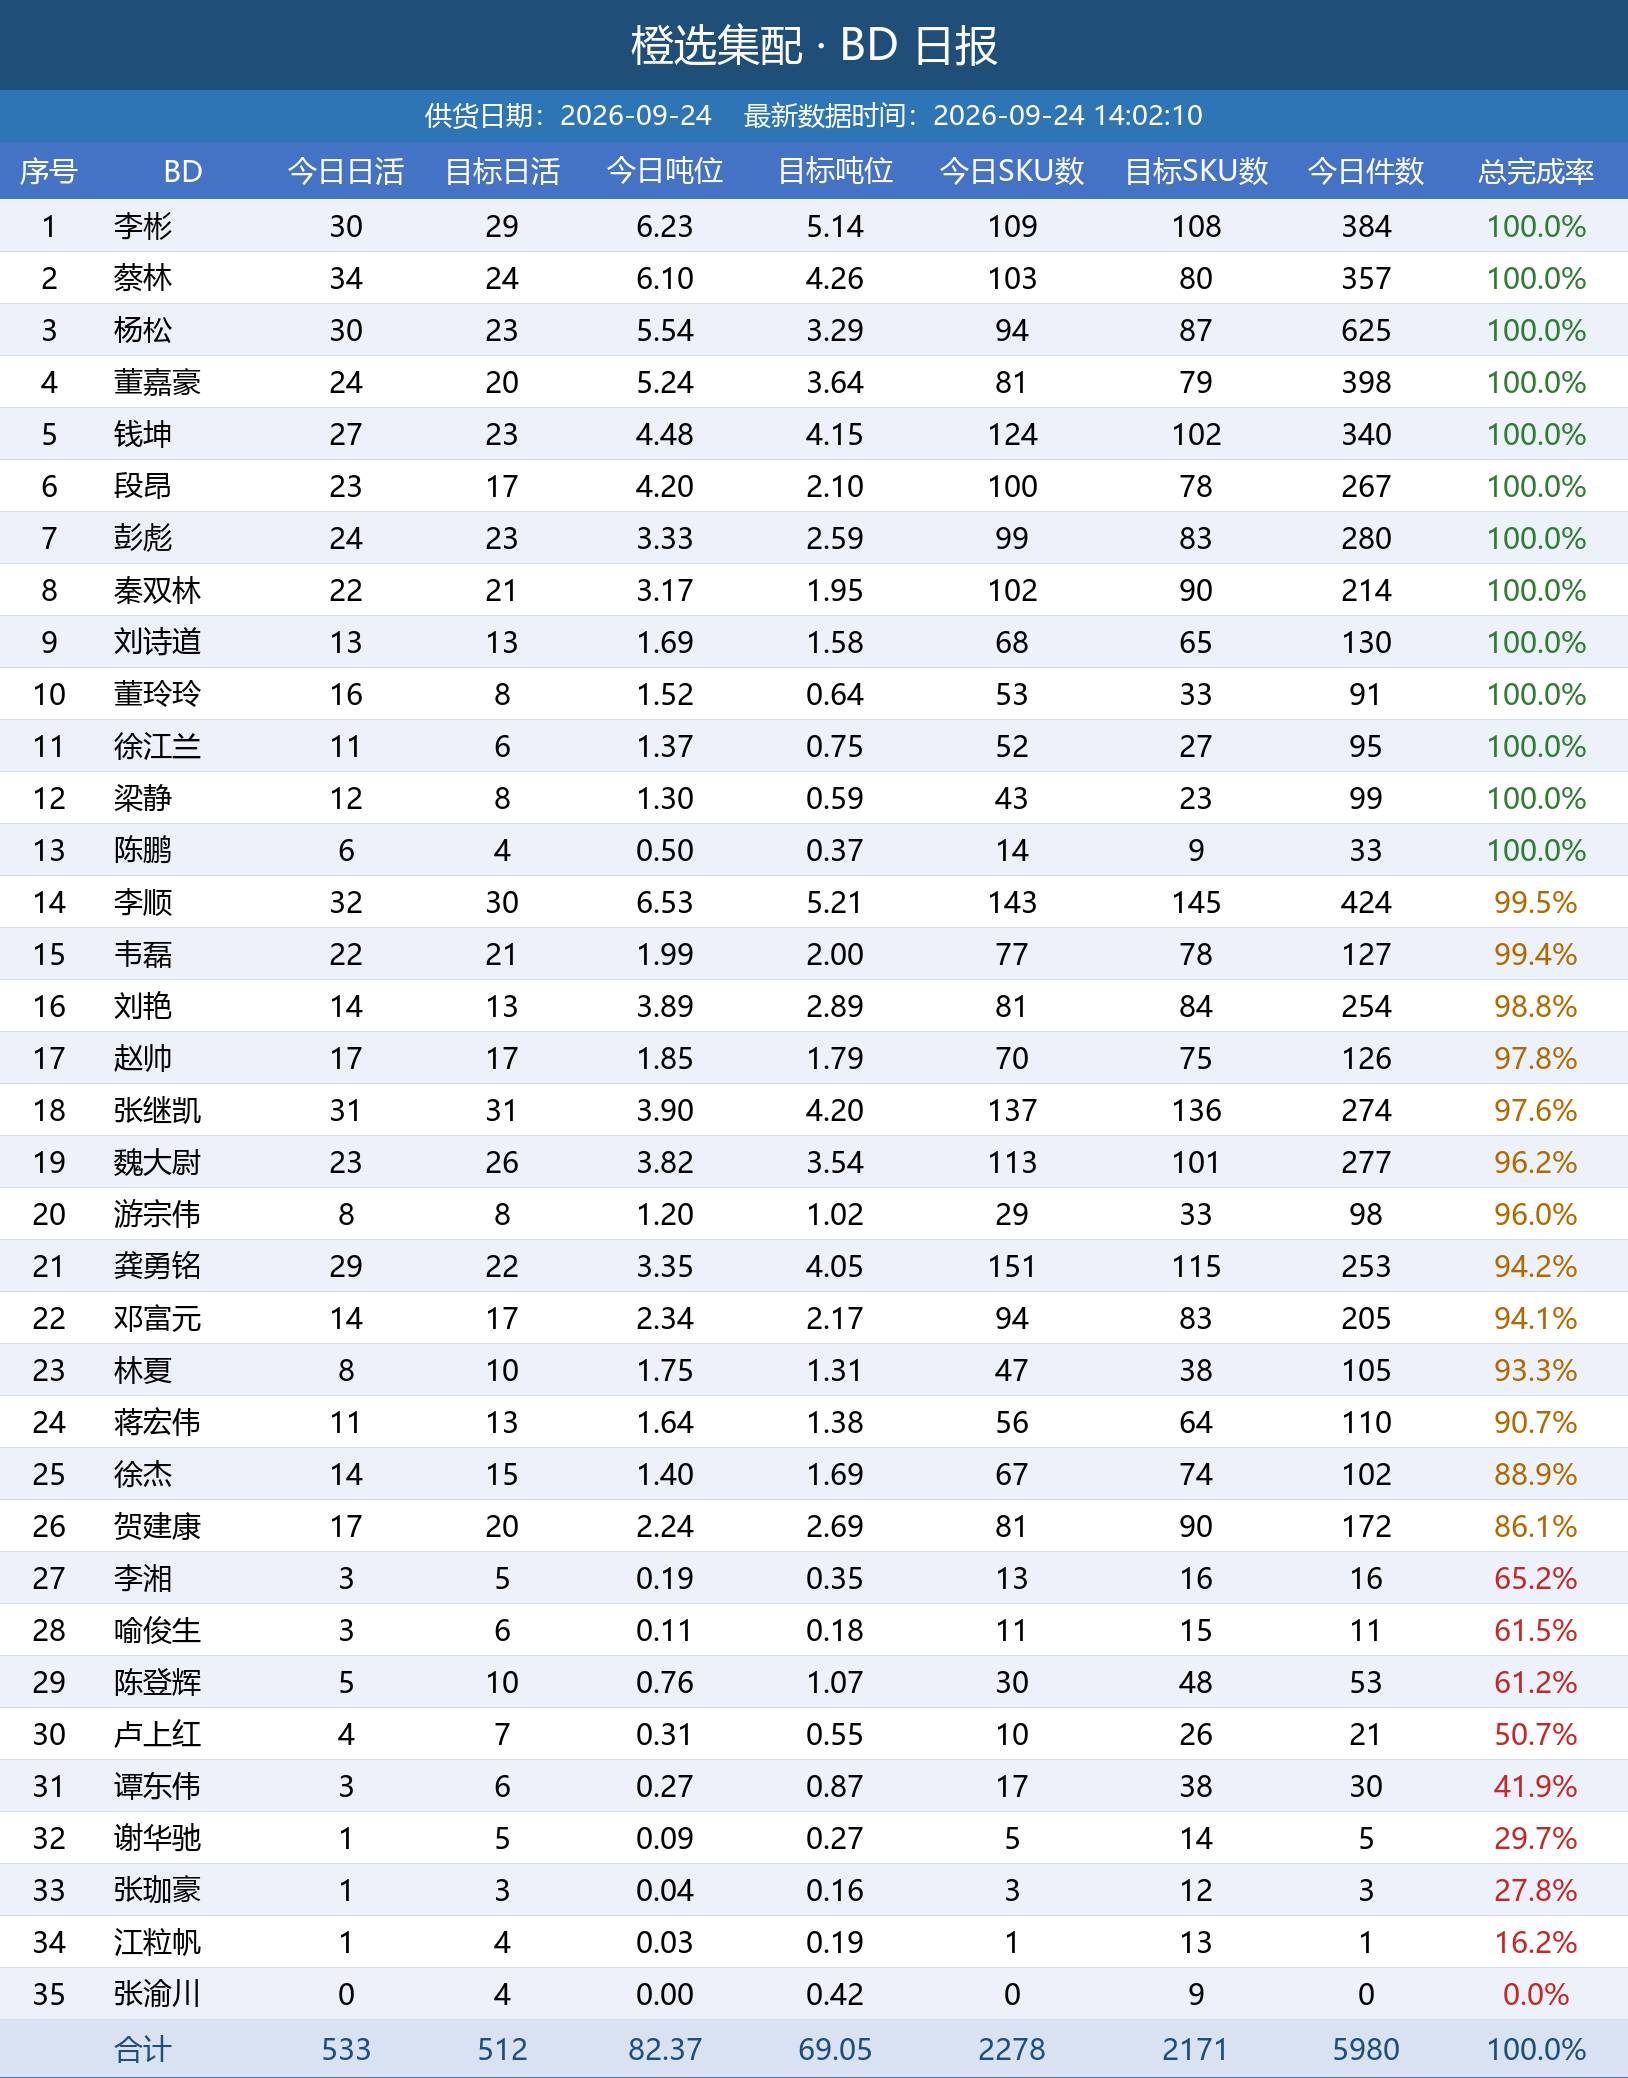
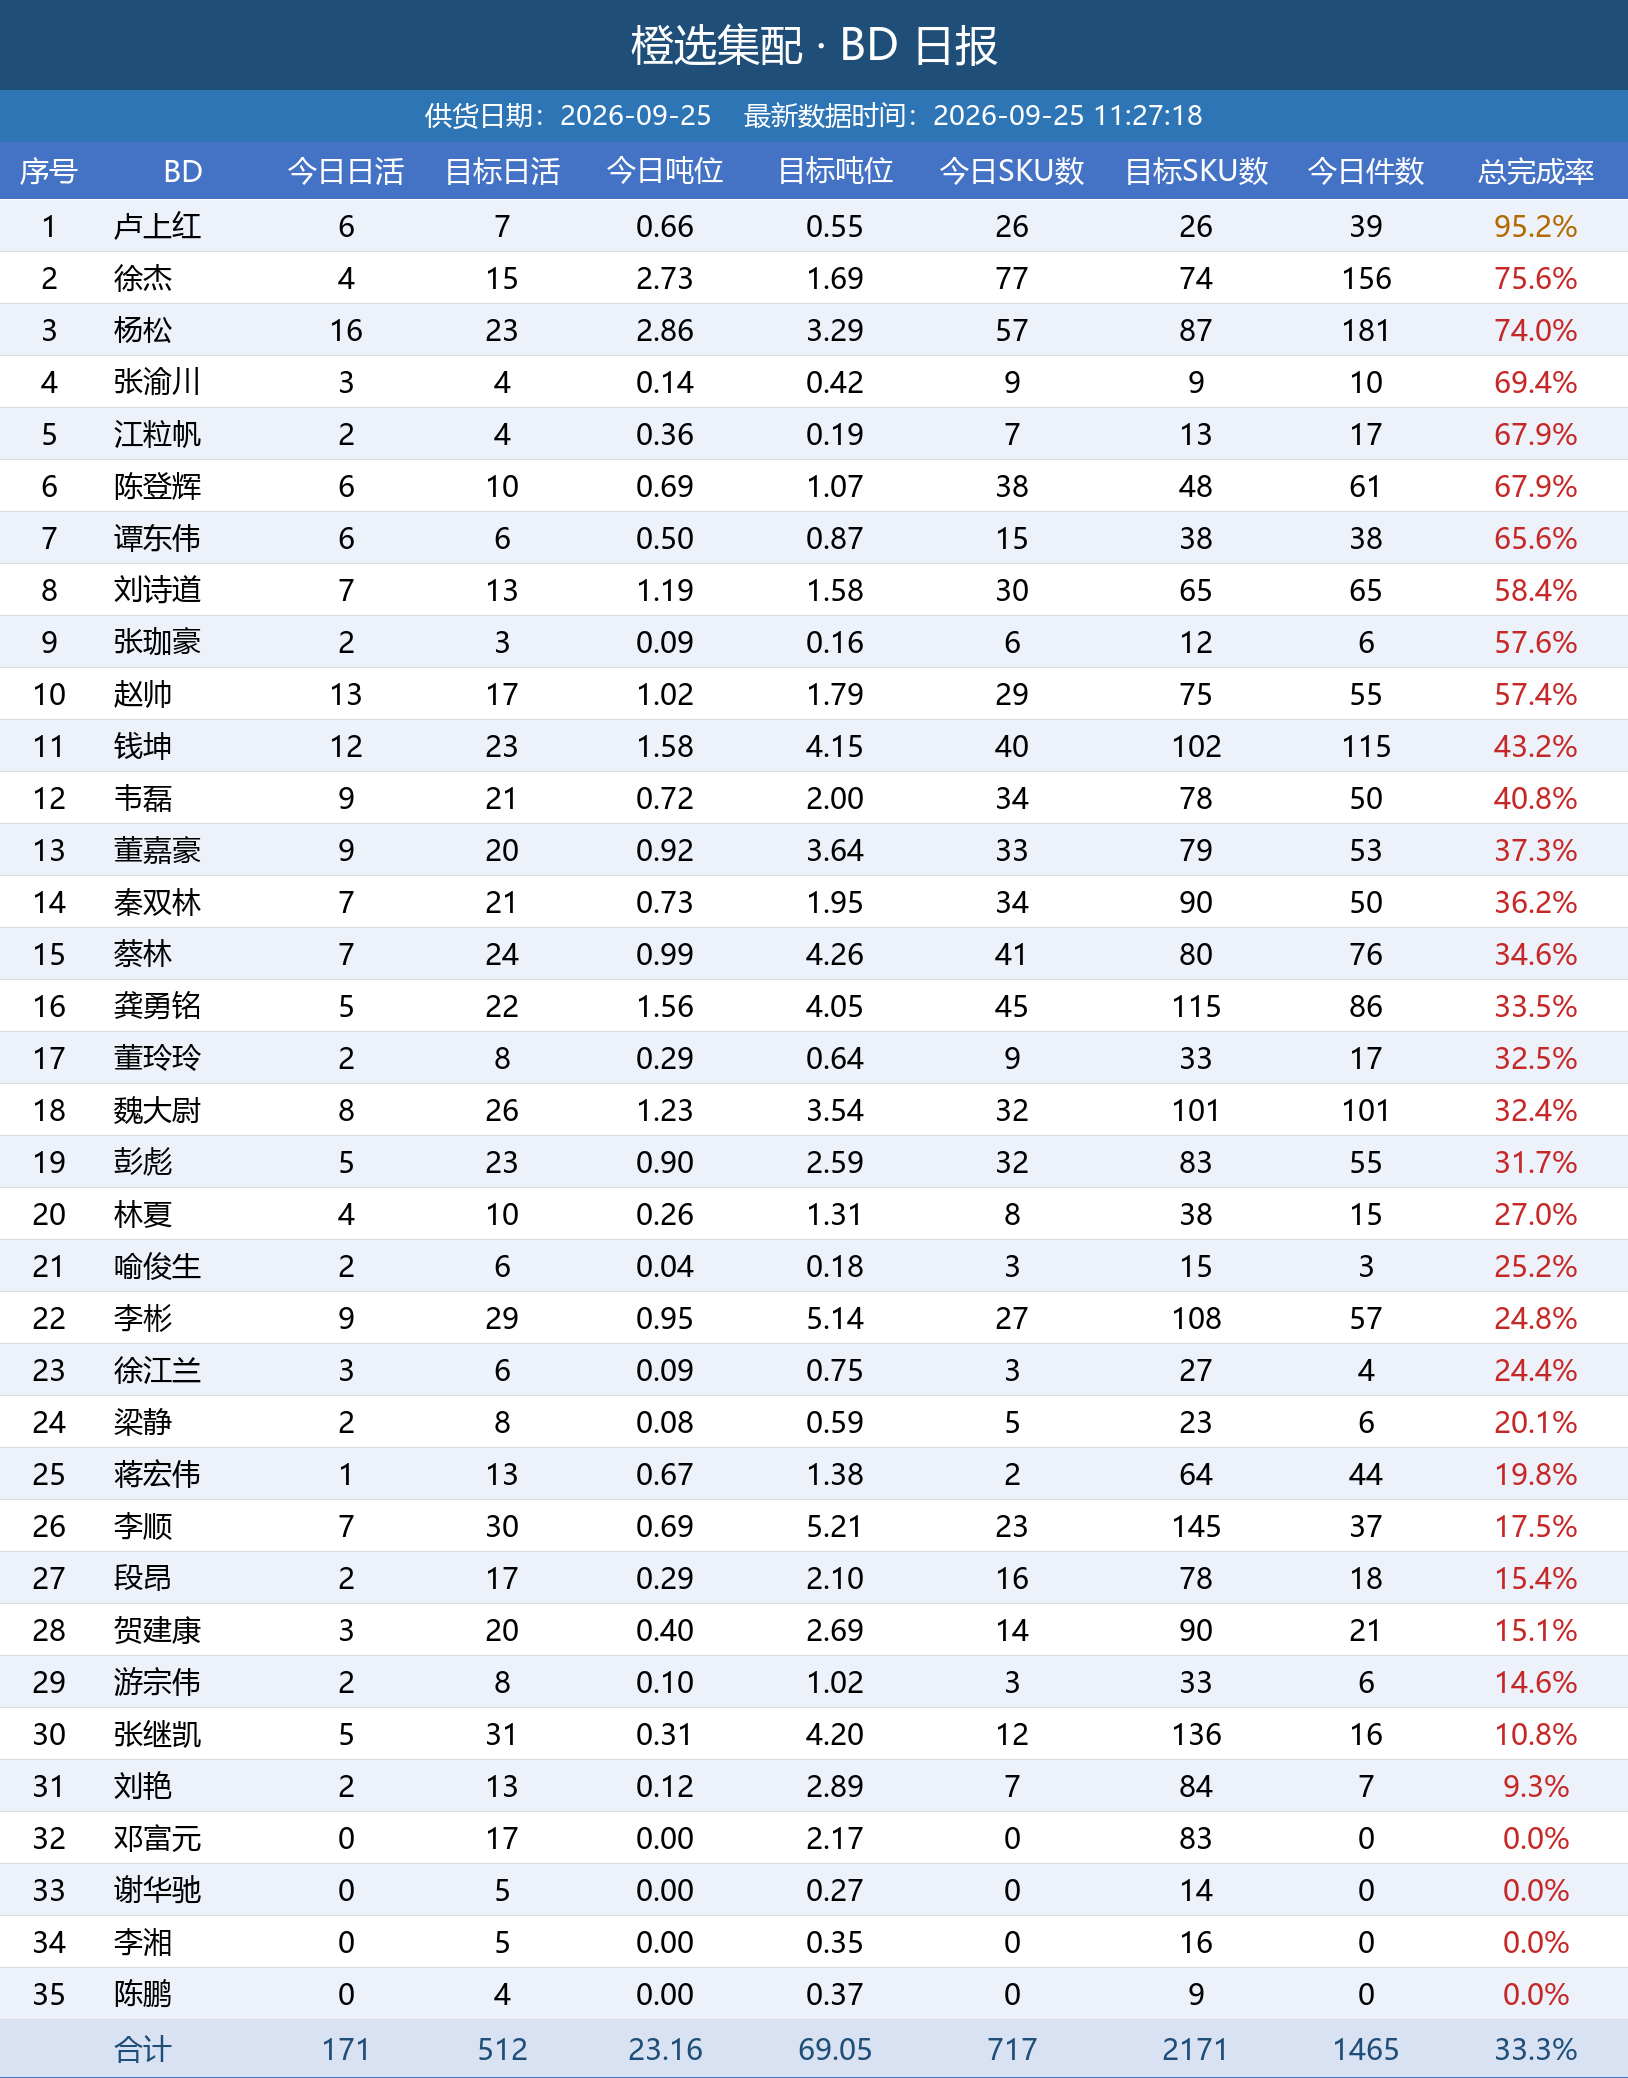
自动更新日报图片

diff --git a/daily_report/index.html b/daily_report/index.html
@@ -11,7 +11,7 @@ img { max-width: 100%; border: 1px solid #e5e5e5; margin-bottom: 24px; display: 
 </style>
 </head>
 <body>
-<h1>橙选集配日报图片（20260924_140458）</h1>
+<h1>橙选集配日报图片（20260925_112916）</h1>
 <img src="bd_latest.png" alt="BD 日报">
 <img src="wh_latest.png" alt="城市仓日报">
 <img src="zs_latest.png" alt="招商日报">
